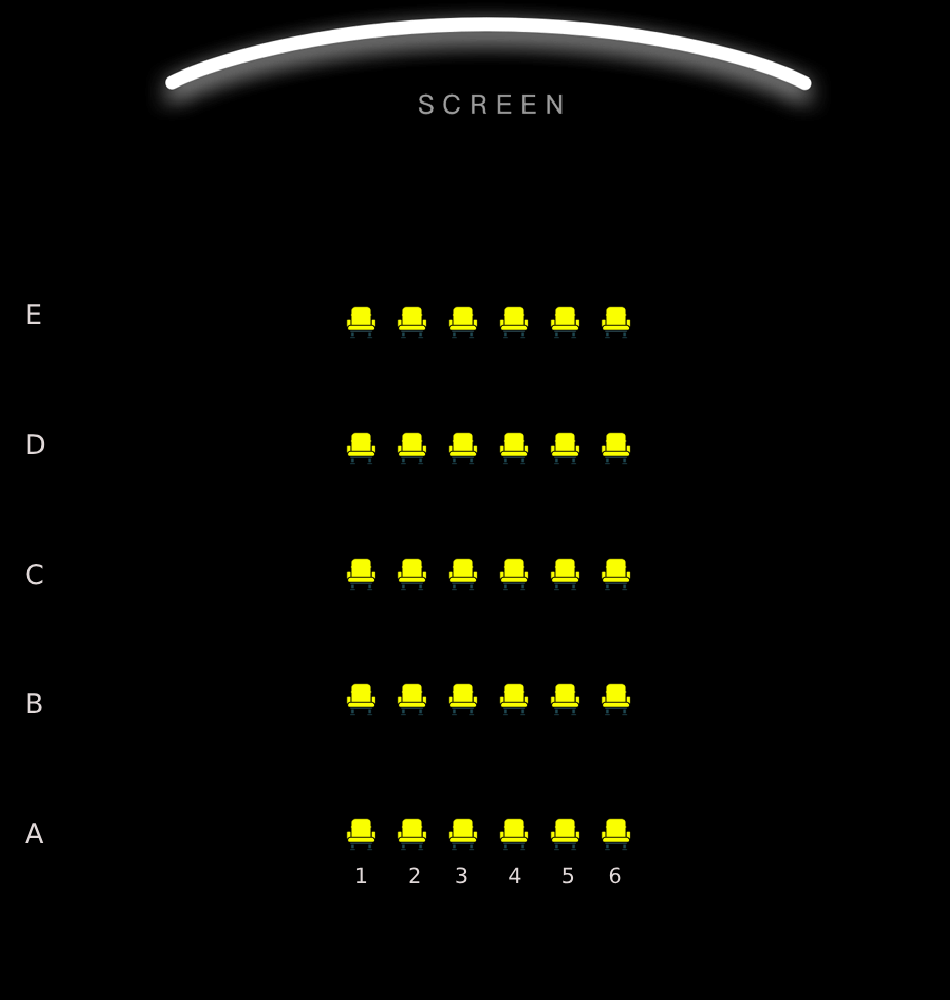
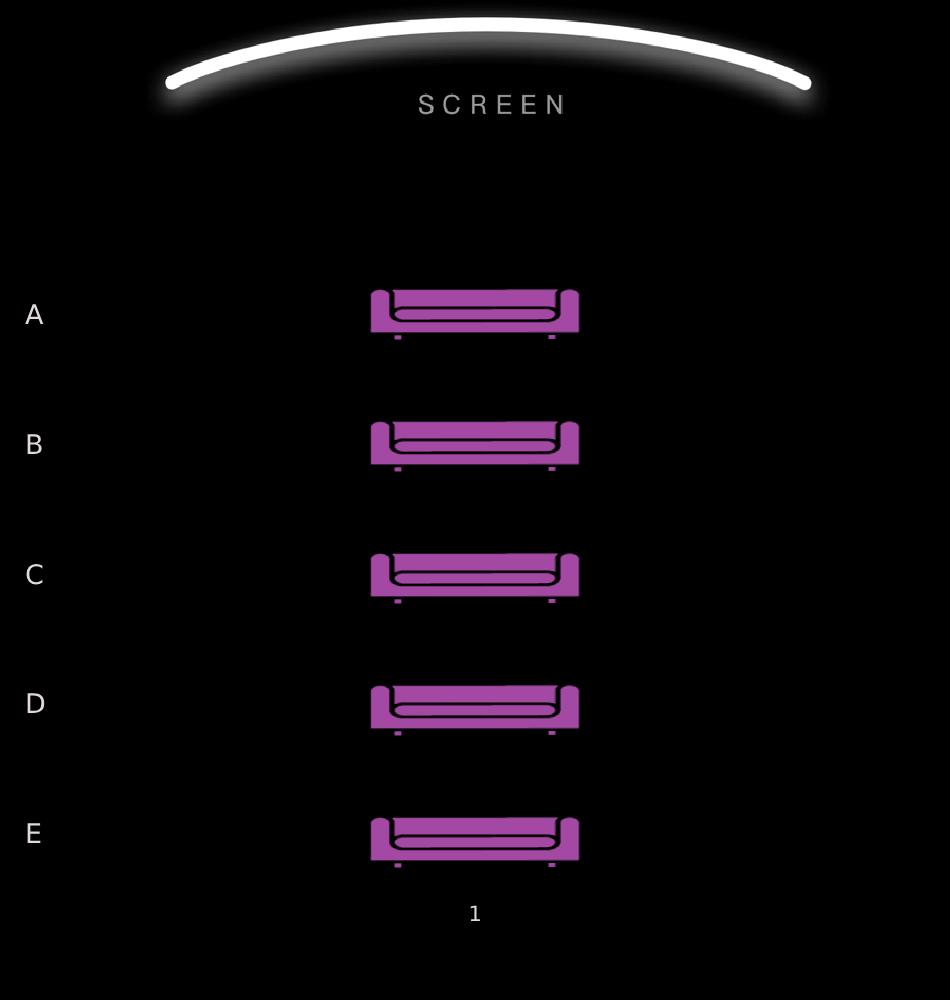
add seat id below each seat

diff --git a/resources/css/admin/manageHall/edit.css b/resources/css/admin/manageHall/edit.css
@@ -104,9 +104,57 @@
     justify-content: flex-end;
 }
 
-.seatImg {
+.standardSeatImg {
     width: 30px;
     height: 30px;
     object-fit: cover;
     margin: 5px;
+}
+
+
+.premium-row {
+    display: flex;
+    justify-content: space-between;
+    align-items: center;
+    margin-bottom: 70px;
+    gap: 100px;
+}
+
+.preium-left-column,
+.premium-right-column {
+    display: flex;
+    justify-content: space-around;
+    align-items: center;
+}
+
+.premiumSeatImg {
+    width: 20px; 
+    height: 20px; 
+    object-fit: cover;
+    margin: 5px;
+}
+
+.familySeatImg{
+    width: 150px;
+    height: 40px;
+    
+}
+
+.family-row {
+    display: flex;
+    justify-content: center;
+    align-items: center;
+    margin-bottom: 50px; /* Add margin for vertical spacing between rows */
+  }
+
+.seat-box {
+    display: inline-block;
+    text-align: center;
+}
+
+.seat-info {
+    font-size: 12px;
+    margin-top: 2px;
+
+    color: white;
 }

diff --git a/resources/views/admin/manageHall/edit.blade.php b/resources/views/admin/manageHall/edit.blade.php
@@ -3,75 +3,172 @@
         @csrf
         <div class="hallView">
             <div class="screen-container">
-                <img class="screenImg" src="{{ asset('images/screen.png')}}"  alt="Screen">
+                <img class="screenImg" src="{{ asset('images/screen.png') }}" alt="Screen">
             </div>
             <div class="seat-container">
                 @php
                     $rowLetters = $seats->unique('row_letter')->pluck('row_letter')->all();
                 @endphp
                 @if ($hall->hall_type === 'Standard')
-                    @for($i=0; $i<sizeof($rowLetters); $i++)
+                    @for ($i = 0; $i < sizeof($rowLetters); $i++)
                         <div class="standard-row">
                             <div class="standard-left-column">
-                                @for($j=1; $j<=3;$j++)
+                                @for ($j = 1; $j <= 3; $j++)
                                     @php
-                                        $seat = $seats->where('row_letter', $rowLetters[$i])->where('column_number', $j)->first();
+                                        $seat = $seats
+                                            ->where('row_letter', $rowLetters[$i])
+                                            ->where('column_number', $j)
+                                            ->first();
                                     @endphp
-                                    @if($seat)
-                                        @if($seat->status === 'open')
-                                        <img class="seatImg" src="{{ asset('images/singleseat.png')}}" alt="Seat {{ $seat->seat_id }}">
-                                        @else
-                                        <img class="seatImg" src="{{ asset('images/unavailableseat.png')}}" alt="Seat {{ $seat->seat_id }}">
-                                        @endif
+                                    @if ($seat)
+                                        <div class="seat-box">
+                                            @if ($seat->status === 'open')
+                                                <img class="standardSeatImg" src="{{ asset('images/singleseat.png') }}"
+                                                    alt="Seat {{ $seat->seat_id }}">
+                                            @else
+                                                <img class="standardSeatImg"
+                                                    src="{{ asset('images/unavailableseat.png') }}"
+                                                    alt="Seat {{ $seat->seat_id }}">
+                                            @endif
+                                            <div class="seat-info">{{ $seat->row_letter }}{{ $seat->column_number }}
+                                            </div>
+                                        </div>
                                     @endif
                                 @endfor
                             </div>
                             <div class="standard-middle-column">
-                                @for($j=4; $j<=9;$j++)
+                                @for ($j = 4; $j <= 9; $j++)
                                     @php
-                                        $seat = $seats->where('row_letter', $rowLetters[$i])->where('column_number', $j)->first();
+                                        $seat = $seats
+                                            ->where('row_letter', $rowLetters[$i])
+                                            ->where('column_number', $j)
+                                            ->first();
                                     @endphp
-                                    @if($seat)
-                                        @if($seat->status === 'open')
-                                        <img class="seatImg" src="{{ asset('images/singleseat.png')}}" alt="Seat {{ $seat->seat_id }}">
-                                        @else
-                                        <img class="seatImg" src="{{ asset('images/unavailableseat.png')}}" alt="Seat {{ $seat->seat_id }}">
-                                        @endif
+                                    @if ($seat)
+                                        <div class="seat-box">
+                                            @if ($seat->status === 'open')
+                                                <img class="standardSeatImg" src="{{ asset('images/singleseat.png') }}"
+                                                    alt="Seat {{ $seat->seat_id }}">
+                                            @else
+                                                <img class="standardSeatImg"
+                                                    src="{{ asset('images/unavailableseat.png') }}"
+                                                    alt="Seat {{ $seat->seat_id }}">
+                                            @endif
+                                            <div class="seat-info">{{ $seat->row_letter }}{{ $seat->column_number }}
+                                            </div>
+                                        </div>
                                     @endif
                                 @endfor
                             </div>
                             <div class="standard-right-column">
-                                @for($j=10; $j<=12;$j++)
+                                @for ($j = 10; $j <= 12; $j++)
                                     @php
-                                        $seat = $seats->where('row_letter', $rowLetters[$i])->where('column_number', $j)->first();
+                                        $seat = $seats
+                                            ->where('row_letter', $rowLetters[$i])
+                                            ->where('column_number', $j)
+                                            ->first();
                                     @endphp
-                                    @if($seat)
-                                        @if($seat->status === 'open')
-                                        <img class="seatImg" src="{{ asset('images/singleseat.png')}}" alt="Seat {{ $seat->seat_id }}">
-                                        @else
-                                        <img class="seatImg" src="{{ asset('images/unavailableseat.png')}}" alt="Seat {{ $seat->seat_id }}">
-                                        @endif
+                                    @if ($seat)
+                                        <div class="seat-box">
+                                            @if ($seat->status === 'open')
+                                                <img class="standardSeatImg" src="{{ asset('images/singleseat.png') }}"
+                                                    alt="Seat {{ $seat->seat_id }}">
+                                            @else
+                                                <img class="standardSeatImg"
+                                                    src="{{ asset('images/unavailableseat.png') }}"
+                                                    alt="Seat {{ $seat->seat_id }}">
+                                            @endif
+                                            <div class="seat-info">{{ $seat->row_letter }}{{ $seat->column_number }}
+                                            </div>
+                                        </div>
                                     @endif
                                 @endfor
                             </div>
                         </div>
                     @endfor
                 @endif
+                @if ($hall->hall_type === 'Premium')
+                    @for ($i = 0; $i < sizeof($rowLetters); $i++)
+                        <div class="premium-row">
+                            <div class="premium-left-column">
+                                @for ($j = 1; $j <= 5; $j++)
+                                    @php
+                                        $seat = $seats
+                                            ->where('row_letter', $rowLetters[$i])
+                                            ->where('column_number', $j)
+                                            ->first();
+                                    @endphp
+                                    @if ($seat)
+                                        <div class="seat-box">
+                                            @if ($seat->status === 'open')
+                                                <img class="premiumSeatImg" src="{{ asset('images/premiumSeat.png') }}"
+                                                    alt="Seat {{ $seat->seat_id }}">
+                                            @else
+                                                <img class="premiumSeatImg"
+                                                    src="{{ asset('images/unavailablePremiumSeat.png') }}"
+                                                    alt="Seat {{ $seat->seat_id }}">
+                                            @endif
+                                            <div class="seat-info">{{ $seat->row_letter }}{{ $seat->column_number }}
+                                            </div>
+                                        </div>
+                                    @endif
+                                @endfor
+                            </div>
+                            <div class="premium-right-column">
+                                @for ($j = 6; $j <= 10; $j++)
+                                    @php
+                                        $seat = $seats
+                                            ->where('row_letter', $rowLetters[$i])
+                                            ->where('column_number', $j)
+                                            ->first();
+                                    @endphp
+                                    @if ($seat)
+                                        <div class="seat-box">
+                                            @if ($seat->status === 'open')
+                                                <img class="premiumSeatImg" src="{{ asset('images/premiumSeat.png') }}"
+                                                    alt="Seat {{ $seat->seat_id }}">
+                                            @else
+                                                <img class="premiumSeatImg"
+                                                    src="{{ asset('images/unavailablePremiumSeat.png') }}"
+                                                    alt="Seat {{ $seat->seat_id }}">
+                                            @endif
+                                            <div class="seat-info">{{ $seat->row_letter }}{{ $seat->column_number }}
+                                            </div>
+                                        </div>
+                                    @endif
+                                @endfor
+                            </div>
+                        </div>
+                    @endfor
+                @endif
+                @if ($hall->hall_type === 'Family')
+                    @for ($i = 0; $i < sizeof($rowLetters); $i++)
+                        <div class="family-row">
+                            @php
+                                $seat = $seats->where('row_letter', $rowLetters[$i])->first();
+                            @endphp
+                            @if ($seat->status === 'open')
+                                <div class="seat-box">
+                                    <img class="familySeatImg" src="{{ asset('images/familySeat.png') }}"
+                                        alt="Seat {{ $seat->seat_id }}">
+                                    <div class="seat-info">{{ $seat->row_letter }}{{ $seat->column_number }}</div>
+                                </div>
+                            @else
+                                <div class="seat-box">
+                                    <img class="familySeatImg" src="{{ asset('images/unavailableFamilySeat.png') }}"
+                                        alt="Seat {{ $seat->seat_id }}">
+                                    <div class="seat-info">{{ $seat->row_letter }}{{ $seat->column_number }}</div>
+                                </div>
+                            @endif
+                        </div>
+                    @endfor
+                @endif
             </div>
         </div>
-        <div class="text-end mt-3"> 
+        <div class="text-end mt-3">
             <button type="submit" class="btn btn-primary">Confirm Modify</button>
         </div>
-        <p>Number of unique row letters: {{ sizeof($rowLetters) }}</p>
-        @foreach($rowLetters as $letter)
-           <p>Current letter: {{ $letter }}</p>
-        @endforeach
-            
-        @foreach ($seats as $seat)
-        <p>Current seat: {{ $seat }}</p>
-    @endforeach
-            
     </form>
-    
-@vite(['resources/css/admin/manageHall/edit.css'], ['resources/js/admin/manageHall/edit.js'])
+
+    @vite(['resources/css/admin/manageHall/edit.css'], ['resources/js/admin/manageHall/edit.js'])
 </x-admin-Layout>
